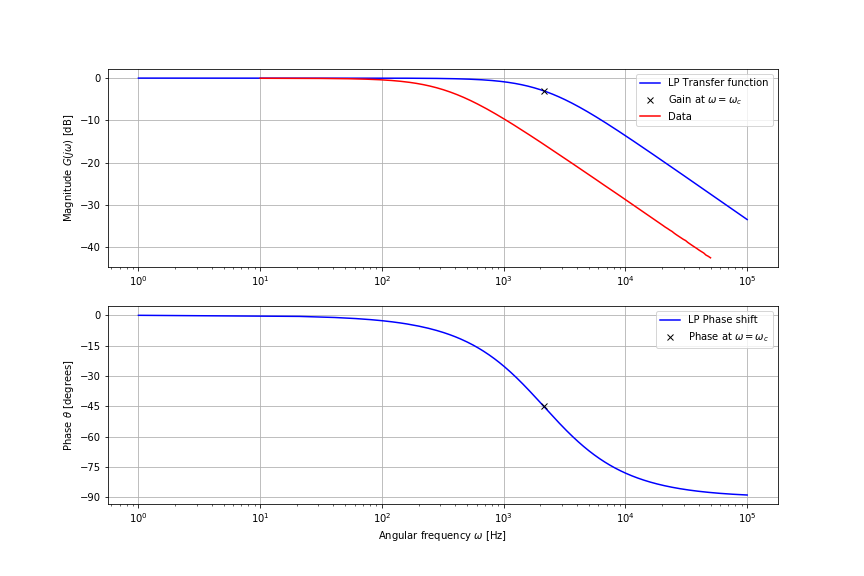
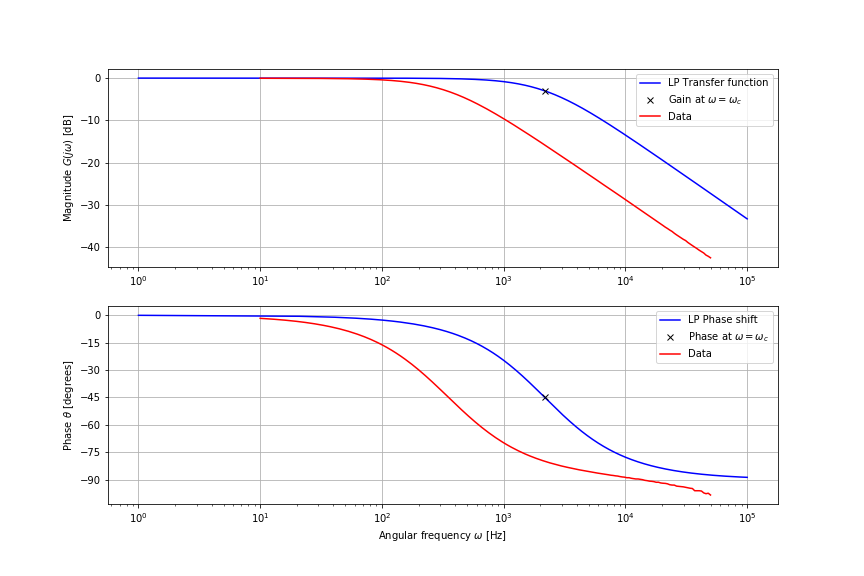
changes

diff --git a/Python_kode.py b/Python_kode.py
@@ -250,6 +250,8 @@ if len(sys.argv) == 2:
                      'b-', label='LP Phase shift')
         plt.semilogx(omega_c, np.arctan(-omega_c*tau)*180/np.pi,
                      'kx', label='Phase at $\omega=\omega_c$')
+        plt.plot(frequency_C, phase_C,
+                     'r-', label='Data')
         plt.yticks(np.arange(0, -105, step=-15))
         plt.legend()
         plt.grid(True)
@@ -279,6 +281,8 @@ if len(sys.argv) == 2:
         plt.subplot(2, 1, 2)
         plt.semilogx(omega, np.arctan(1/(omega*tau))*180/np.pi,
                      'b-', label='HP Phase shift')
+        plt.plot(frequency_R, phase_R,
+                     'r-', label='Data')
         plt.yticks(np.arange(0, 105, step=15))
         plt.legend()
         plt.grid(True)
